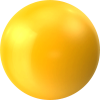
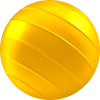
p

diff --git a/src/textured/BulletThread.java b/src/textured/BulletThread.java
@@ -35,8 +35,6 @@ public class BulletThread implements Runnable {
 
 	static void move(Bullet bullet, Field field) {
 
-		System.out.println(bullet.getPitcher() + " " + bullet.getImage());
-
 		if (field.hitRIGHT(bullet) != 1) {
 			bullet.setRight(false);
 			bullet.setLeft(true);
@@ -70,19 +68,21 @@ public class BulletThread implements Runnable {
 			if (bullet.getRateY() < 2)
 				field.moveDOWN(bullet);
 
-		int ticker = bullet.getTicker();
-		if (bullet.getTicker() < Constants.TICKER - 1) {
-			bullet.setTicker(++ticker);
-		} else {
-			bullet.setTicker(0);
+		int fps = bullet.getFPS();
+		if (fps < Constants.FPS)
+			bullet.riseFPS();
+		else {
+			bullet.resetFPS();
 
 			int count = bullet.getCount();
-
 			if (count < Constants.BALL.length - 1)
-				bullet.setCount(++count);
+				bullet.riseCount();
 			else
-				bullet.setCount(0);
+				bullet.resetCount();
+
 			bullet.setImage(Constants.BALL[count]);
+
+//			System.out.println(bullet.getPitcher() + " " + bullet.getImage() + " " + count);
 		}
 
 		try {

diff --git a/src/textured/Bullet.java b/src/textured/Bullet.java
@@ -10,7 +10,7 @@ class Bullet extends Moveable {
 	private byte rateY = 0;
 	private Pitcher pitcher;
 	private int count = 0;
-	private int ticker = 0;
+	private int fps = 1;
 
 	Bullet(Pitcher pitcher) {
 		super(pitcher.getX() + (pitcher.getWidth() - Constants.BULLET_WIDTH) / 2,
@@ -42,12 +42,28 @@ class Bullet extends Moveable {
 		this.count = count;
 	}
 
-	public void setTicker(int ticker) {
-		this.ticker = ticker;
+	public void riseCount() {
+		this.count++;
 	}
 
-	public int getTicker() {
-		return this.ticker;
+	public void resetCount() {
+		this.count = 0;
+	}
+
+	public void setFPS(int fps) {
+		this.fps = fps;
+	}
+
+	public void riseFPS() {
+		this.fps++;
+	}
+
+	public void resetFPS() {
+		this.fps = 1;
+	}
+
+	public int getFPS() {
+		return this.fps;
 	}
 
 	public int getCount() {

diff --git a/src/textured/Constants.java b/src/textured/Constants.java
@@ -28,7 +28,7 @@ public class Constants {
 	static final int PITCHER_WIDTH = DIM_X / 5;
 	static final int PITCHER_HEIGTH = PITCHER_WIDTH / 5;
 
-	static final int BULLET_DELAY = DIM_Y / 150;
+	static final int BULLET_DELAY = DIM_Y / 100;
 
 	static final String PATH = "src\\";
 
@@ -49,8 +49,9 @@ public class Constants {
 	static final String BALL_1 = PATH + "Ball-1.png";
 	static final String BALL_2 = PATH + "Ball-2.png";
 	static final String BALL_3 = PATH + "Ball-3.png";
-	static final String[] BALL = { BALL_1, BALL_2, BALL_3, BALL_2 };
+	static final String BALL_4 = PATH + "Ball-4.png";
+	static final String BALL_5 = PATH + "Ball-5.png";
+	static final String[] BALL = { BALL_1, BALL_2, BALL_3, BALL_4, BALL_5 };
 
-	static final int TICKER = 50;
-
+	static final int FPS = 25;
 }
